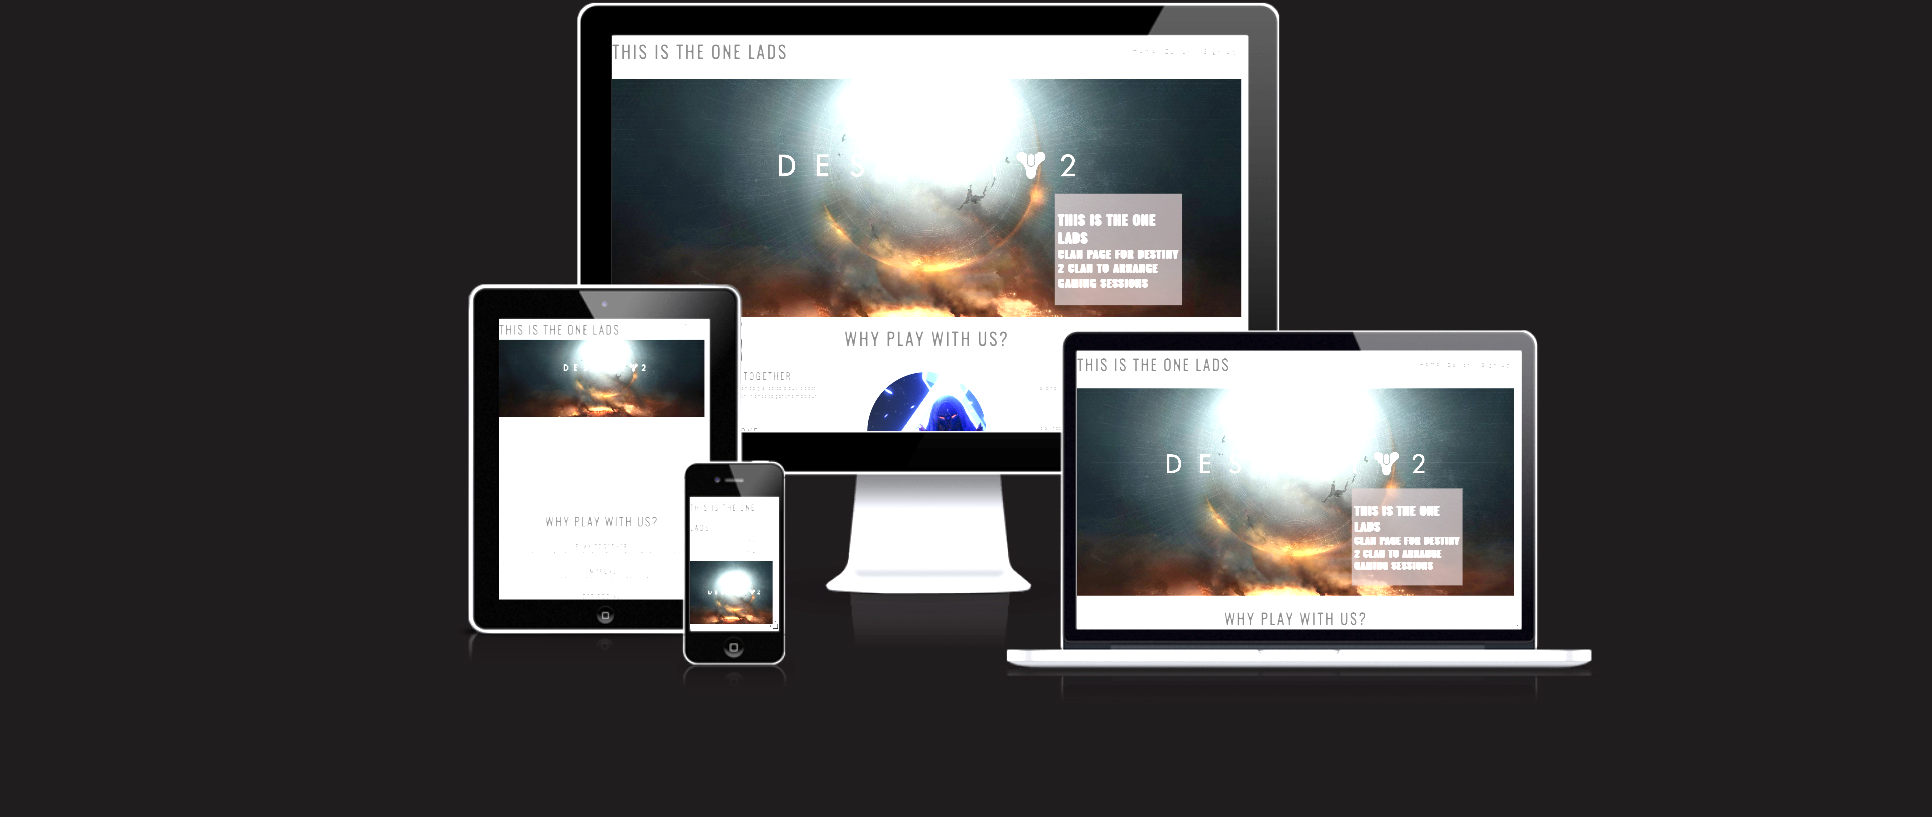
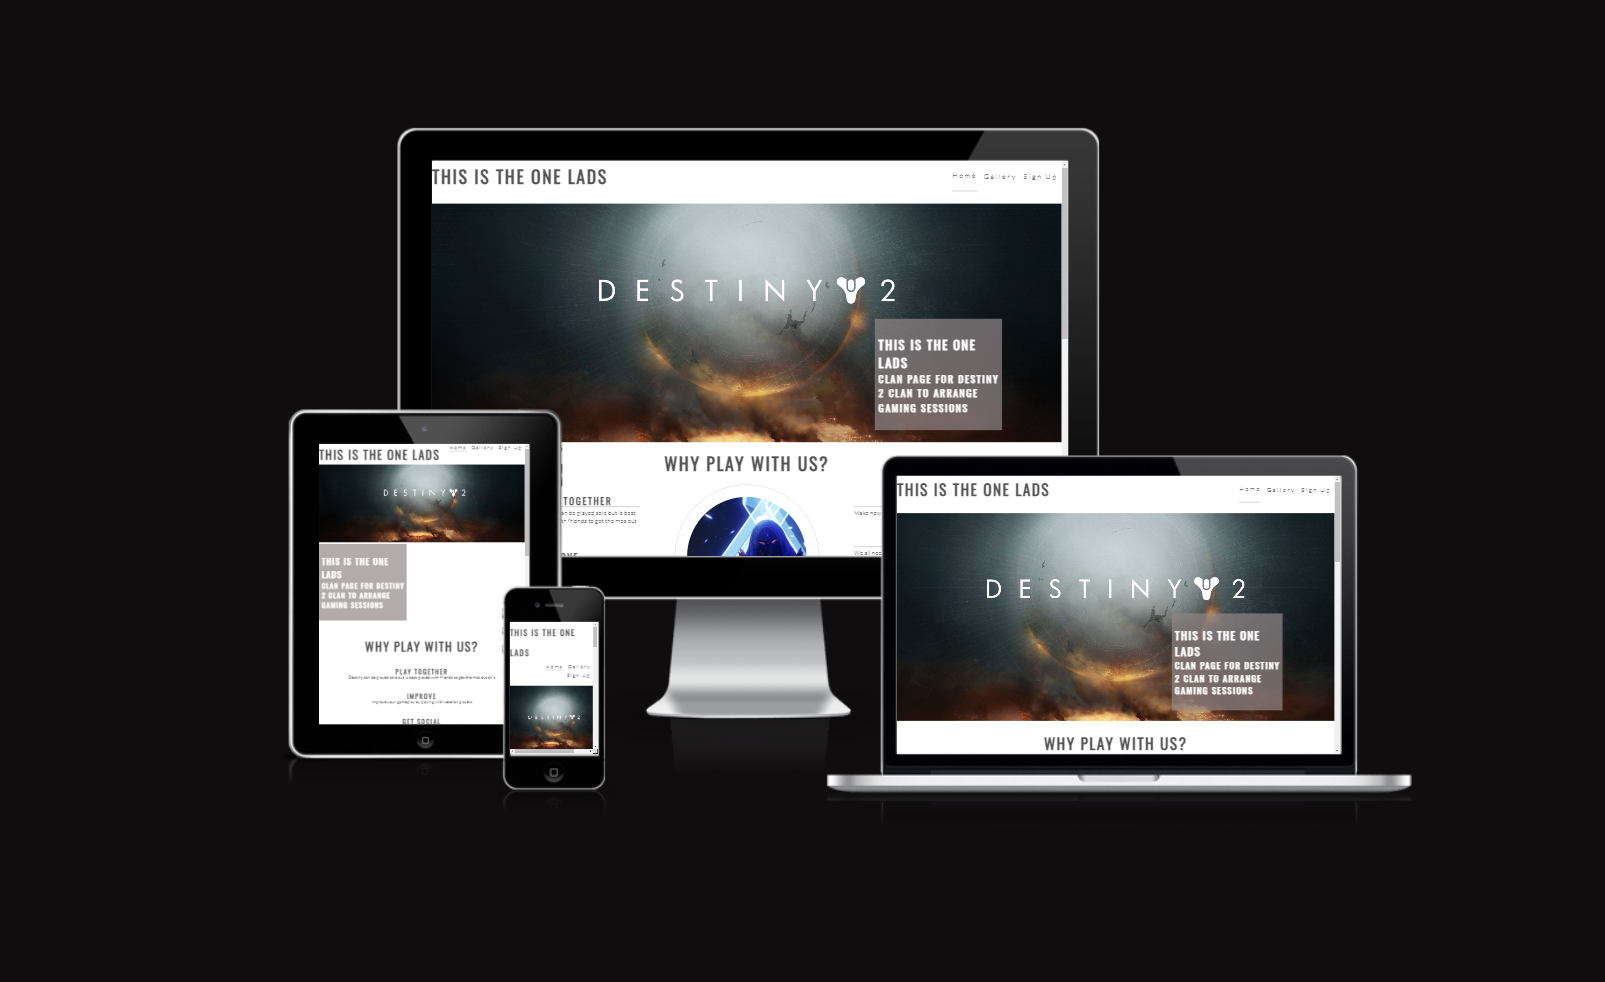
Added readme documentation

diff --git a/index.html b/index.html
@@ -15,7 +15,7 @@
         <a href="index.html">
             <h2 ID="logo">This is the one lads</h2>
         </a>
-        <!-- changed nav -->
+        <!-- navigation bar section -->
         <div class="container">
             <nav class="navigation">
                 <ul id="menu">
@@ -27,6 +27,7 @@
             </nav>
         </div>  
     </header>
+    <!--Landing page section-->
     <section id="hero-outer">
         <div id="hero-image" title="Destiny2 logo"></div>
         <div id="cover-text">
@@ -34,6 +35,7 @@
             <h3>Clan page for Destiny 2 clan to arrange gaming sessions</h3>
         </div>
     </section>
+    <!-- club ethos section-->
     <section id="club-ethos">
         <h2 id="welcome">Why Play With Us?</h2>
         <div id="left-about">
@@ -75,6 +77,7 @@
             </div>
         </div>
     </section>
+    <!--timetable section-->
     <section id="times">
         <div>
             <h2>Raids </h2>
@@ -109,6 +112,8 @@
             <h3>11:30</h3>
         </div>
     </section>
+
+    <!--footer section-->
     <footer>
         <ul class="social-networks">
             

diff --git a/README.md b/README.md
@@ -1,83 +1,78 @@
 # This is the one lads
 
-This is the one lads is a sites that helps existing  clan members to arrange co-op sessions in the game Destiny 2. It also enables new people to request to join the clan to play with more
-experienced players.
+This is the one lads is a sites that helps existing  clan members to arrange co-op sessions in the game Destiny 2. It also enables new people to request to join the clan in order play with more
+experienced clan members
 
-
-
-![Site view across devices](/workspace/Portfolio1/docs/am i responisve.png)
+![Responsive view](./docs/am%20i%20responisve.png)
 
 ## Features 
 
-In this section, you should go over the different parts of your project, and describe each in a sentence or so. You will need to explain what value each of the features provides for the user, focusing on who this website is for, what it is that they want to achieve and how your project is the best way to help them achieve these things.
-
-### Existing Features
 
 - __Navigation Bar__
 
-  - Featured on all three pages, the full responsive navigation bar includes links to the Logo, Home page, Gallery and Sign Up page and is identical in each page to allow for easy navigation.
+  - Featured on all three pages, the full responsive navigation bar includes links to the  Home page, Gallery and Sign Up page and is identical in each page to allow for easy navigation.
   - This section will allow the user to easily navigate from page to page across all devices without having to revert back to the previous page via the ‘back’ button. 
 
-![Nav Bar](https://github.com/lucyrush/readme-template/blob/master/media/love_running_nav.png)
+![Nav Bar](./docs/Nav%20bar%20home%20page.png)
 
 - __The landing page image__
 
-  - The landing includes a photograph with text overlay to allow the user to see exactly which location this site would be applicable to. 
-  - This section introduces the user to Love Running with an eye catching animation to grab their attention
+  - The landing includes a photograph with text overlay to allow the user to see exactly to whom this site would be applicable to. 
+  - This section introduces the user to This is the one lads  with an eye catching animation of the Destiny2 logo to grab their attention.
 
-![Landing Page](https://github.com/lucyrush/readme-template/blob/master/media/love_running_landing.png)
+![Landing Page](./docs/Landing%20page%20image.png)
 
 - __Club Ethos Section__
 
-  - The club ethos section will allow the user to see the benefits of joining the Love Running meetups, as well as the benefits of running overall. 
-  - This user will see the value of signing up for the Love Running meetups. This should encourage the user to consider running as their form of exercise. 
+  - The clan ethos section will allow the user to see the benefits of joining the clan. 
+  - This user will see the value of signing up for This is the one lads in order to enjou the full Destiny2 experience.
 
-![Club Ethos](https://github.com/lucyrush/readme-template/blob/master/media/love_running_ethos.png)
+![Club Ethos](./docs/club%20ethos%20section.png)
 
 - __Meetup Times section__
 
-  - This section will allow the user to see exactly when the meetups will happen, where they will be located and how long the run will be in kilometers. 
-  - This section will be updated as these times change to keep the user up to date. 
+  - This section will allow the user to see exactly when the different in-game avtivities will happen and what we will be doing together. 
+  - This section will be updated as game content changes to keep the user up to date. 
 
-![Meetup Times](https://github.com/lucyrush/readme-template/blob/master/media/love_running_times.png)
+![Meetup Times](./docs/Activtities%20timetable.png)
 
 - __The Footer__ 
 
-  - The footer section includes links to the relevant social media sites for Love Running. The links will open to a new tab to allow easy navigation for the user. 
+  - The footer section includes links to the relevant social media sites for Love This is the one lads. The links will open to a new tab to allow easy navigation for the user. 
   - The footer is valuable to the user as it encourages them to keep connected via social media
 
-![Footer](https://github.com/lucyrush/readme-template/blob/master/media/love_running_footer.png)
+![Footer](./docs/social%20links.png)
 
 - __Gallery__
 
-  - The gallery will provide the user with supporting images to see what the meet ups look like. 
-  - This section is valuable to the user as they will be able to easily identify the types of events the organisation puts together. 
+  - The gallery will provide the user with supporting images to see what Destiny2 look like. 
+  - This section is valuable to the user as they will be able to easily identify the types of activities and features available in the game. 
 
-![Gallery](https://github.com/lucyrush/readme-template/blob/master/media/love_running_gallery.png)
+![Gallery](./docs/Gallery%20images.png)
 
 - __The Sign Up Page__
 
-  - This page will allow the user to get signed up to Love Running to start their running journey with the community. The user will be able specify if they would like to take part in road, trail or both types of running. The user will be asked to submit their full name and email address. 
+  - This page will allow the user to get signed up to This is the one lads to start playing  with the clan. The user will be able specify if they would like to play on Playsation, Steam or both.   The user will be asked to submit their full name and email address.
 
-![Sign Up](https://github.com/lucyrush/readme-template/blob/master/media/love_running_signup.png)
+![Sign Up](./docs/signup_form.png)
 
-For some/all of your features, you may choose to reference the specific project files that implement them.
 
-In addition, you may also use this section to discuss plans for additional features to be implemented in the future:
 
 ### Features Left to Implement
 
-- Another feature idea
+- Add a looking for group(LFG) section, where users can select a specific ativity at preferred time.
 
 ## Testing 
 
-In this section, you need to convince the assessor that you have conducted enough testing to legitimately believe that the site works well. Essentially, in this part you will want to go over all of your project’s features and ensure that they all work as intended, with the project providing an easy and straightforward way for the users to achieve their goals.
+The site was tested in Firefox and Google Chrome at varying screen sizes using dev tools
 
-In addition, you should mention in this section how your project looks and works on different browsers and screen sizes.
+![Using dev tools](./docs/using%20chrome%20dev%20tools.png) ![Small screen testing](./docs/Small%20screen%20testing.png)
 
-You should also mention in this section any interesting bugs or problems you discovered during your testing, even if you haven't addressed them yet.
+The site remains responive across multiple screen sizes
 
-If this section grows too long, you may want to split it off into a separate file and link to it from here.
+On smaller screen sizes the hero image appeared streched and pixelated. I found a solution using css background on Stackoverflow. Link in credit sections
+
+The gallery images were not displaying properly on smalller screens. Found a  solution on Youtube using a flexbox. Link in credit section.
 
 
 ### Validator Testing 
@@ -87,9 +82,7 @@ If this section grows too long, you may want to split it off into a separate fil
 - CSS
   - No errors were found when passing through the official [(Jigsaw) validator](https://jigsaw.w3.org/css-validator/validator?uri=https%3A%2F%2Fvalidator.w3.org%2Fnu%2F%3Fdoc%3Dhttps%253A%252F%252Fcode-institute-org.github.io%252Flove-running-2.0%252Findex.html&profile=css3svg&usermedium=all&warning=1&vextwarning=&lang=en#css)
 
-### Unfixed Bugs
 
-You will need to mention unfixed bugs and why they were not fixed. This section should include shortcomings of the frameworks or technologies used. Although time can be a big variable to consider, paucity of time and difficulty understanding implementation is not a valid reason to leave bugs unfixed. 
 
 ## Deployment
 
@@ -105,37 +98,17 @@ The live link can be found here - https://code-institute-org.github.io/love-runn
 
 ## Credits 
 
-In this section you need to reference where you got your content, media and extra help from. It is common practice to use code from other repositories and tutorials, however, it is important to be very specific about these sources to avoid plagiarism. 
-
-You can break the credits section up into Content and Media, depending on what you have included in your project. 
 
 ### Content 
 
-- The text for the Home page was taken from Wikipedia Article A
-- Instructions on how to implement form validation on the Sign Up page was taken from [Specific YouTube Tutorial](https://www.youtube.com/)
+- The structure for the home page was taken from the Love Running tutorial
+- Instructions on how to implement the flexbox on the gallery page was taken from [Cem Eygi Media](https://www.youtube.com/watch?v=QmZNFnqwu74&ab_channel=CemEygiMedia)
 - The icons in the footer were taken from [Font Awesome](https://fontawesome.com/)
-
+- The fix for the hero image pixelation was found on [Slack Overflow](https://stackoverflow.com/questions/64563675/best-method-for-making-hero-image-fill-entire-screen-on-mobile-without-ruining-q)
 ### Media
 
-- The photos used on the home and sign up page are from This Open Source site
-- The images used for the gallery page were taken from this other open source site
+- The photos used on the home and sign up page are from [Alphacoders](https://wall.alphacoders.com/profile.php?id=68995 footer image citation: https://wall.alphacoders.com/big.php?i=917700)
+- The images used for the gallery page were taken by me in game.
 
 
-Congratulations on completing your Readme, you have made another big stride in the direction of being a developer! 
 
-## Other General Project Advice
-
-Below you will find a couple of extra tips that may be helpful when completing your project. Remember that each of these projects will become part of your final portfolio so it’s important to allow enough time to showcase your best work! 
-
-- One of the most basic elements of keeping a healthy commit history is with the commit message. When getting started with your project, read through [this article](https://chris.beams.io/posts/git-commit/) by Chris Beams on How to Write  a Git Commit Message 
-  - Make sure to keep the messages in the imperative mood 
-
-- When naming the files in your project directory, make sure to consider meaningful naming of files, point to specific names and sections of content.
-  - For example, instead of naming an image used ‘image1.png’ consider naming it ‘landing_page_img.png’. This will ensure that there are clear file paths kept. 
-
-- Do some extra research on good and bad coding practices, there are a handful of useful articles to read, consider reviewing the following list when getting started:
-  - [Writing Your Best Code](https://learn.shayhowe.com/html-css/writing-your-best-code/)
-  - [HTML & CSS Coding Best Practices](https://medium.com/@inceptiondj.info/html-css-coding-best-practice-fadb9870a00f)
-  - [Google HTML/CSS Style Guide](https://google.github.io/styleguide/htmlcssguide.html#General)
-
-Getting started with your Portfolio Projects can be daunting, planning your project can make it a lot easier to tackle, take small steps to reach the final outcome and enjoy the process! 
